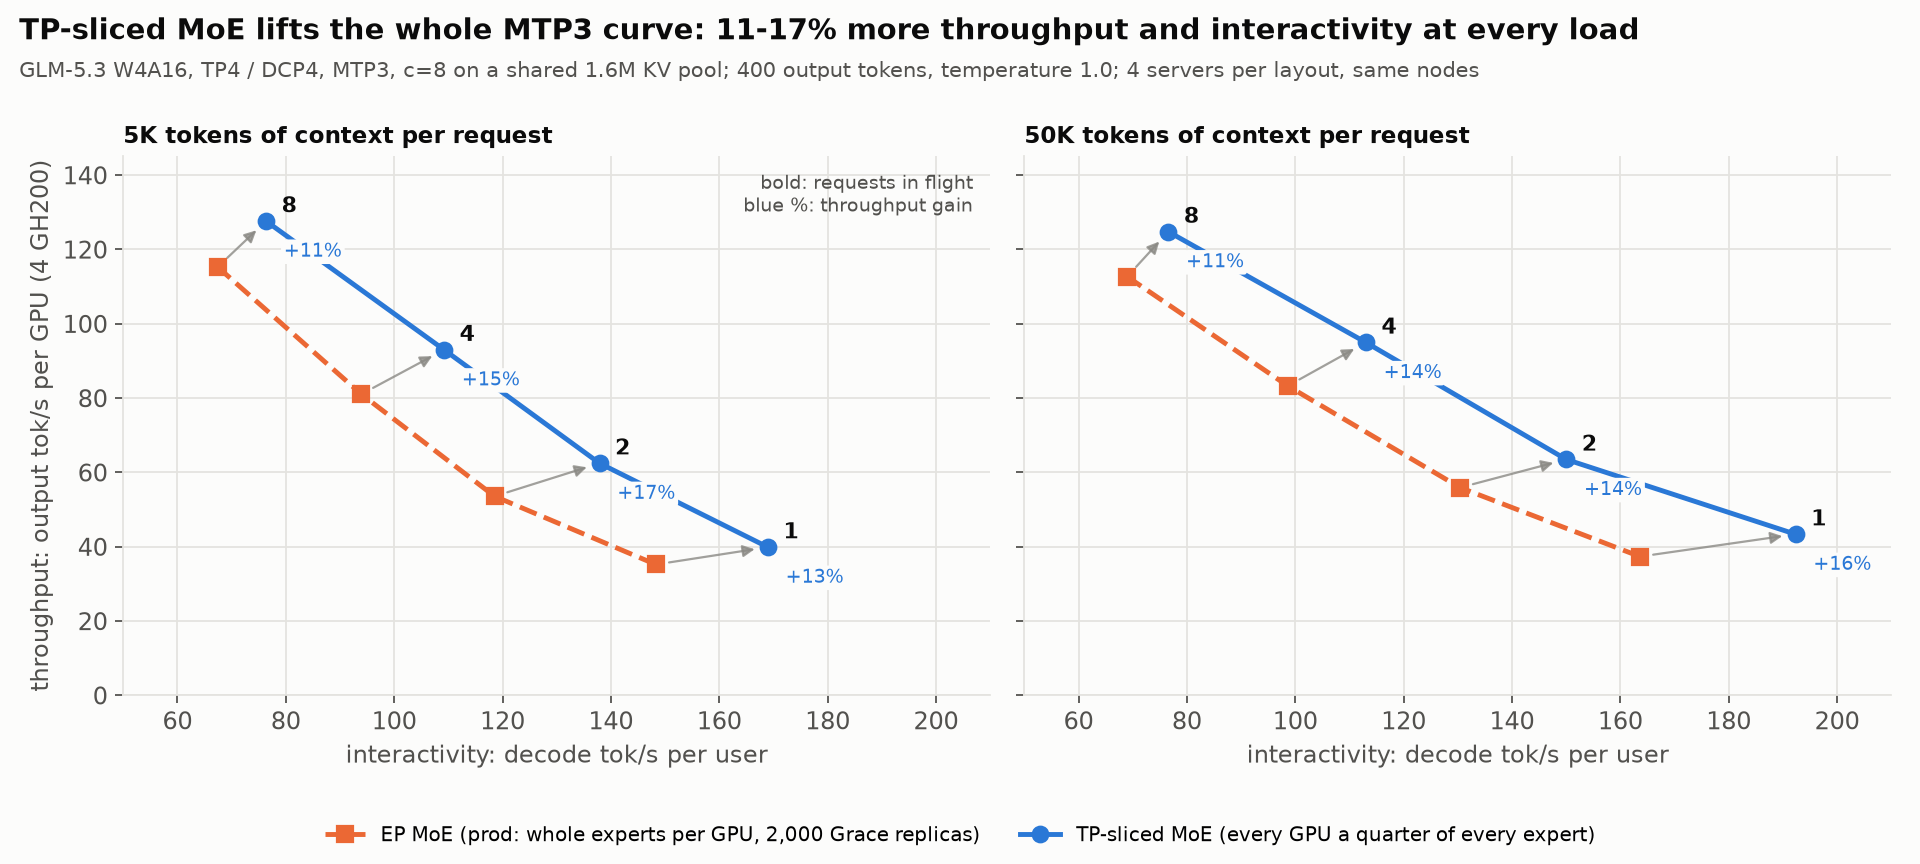
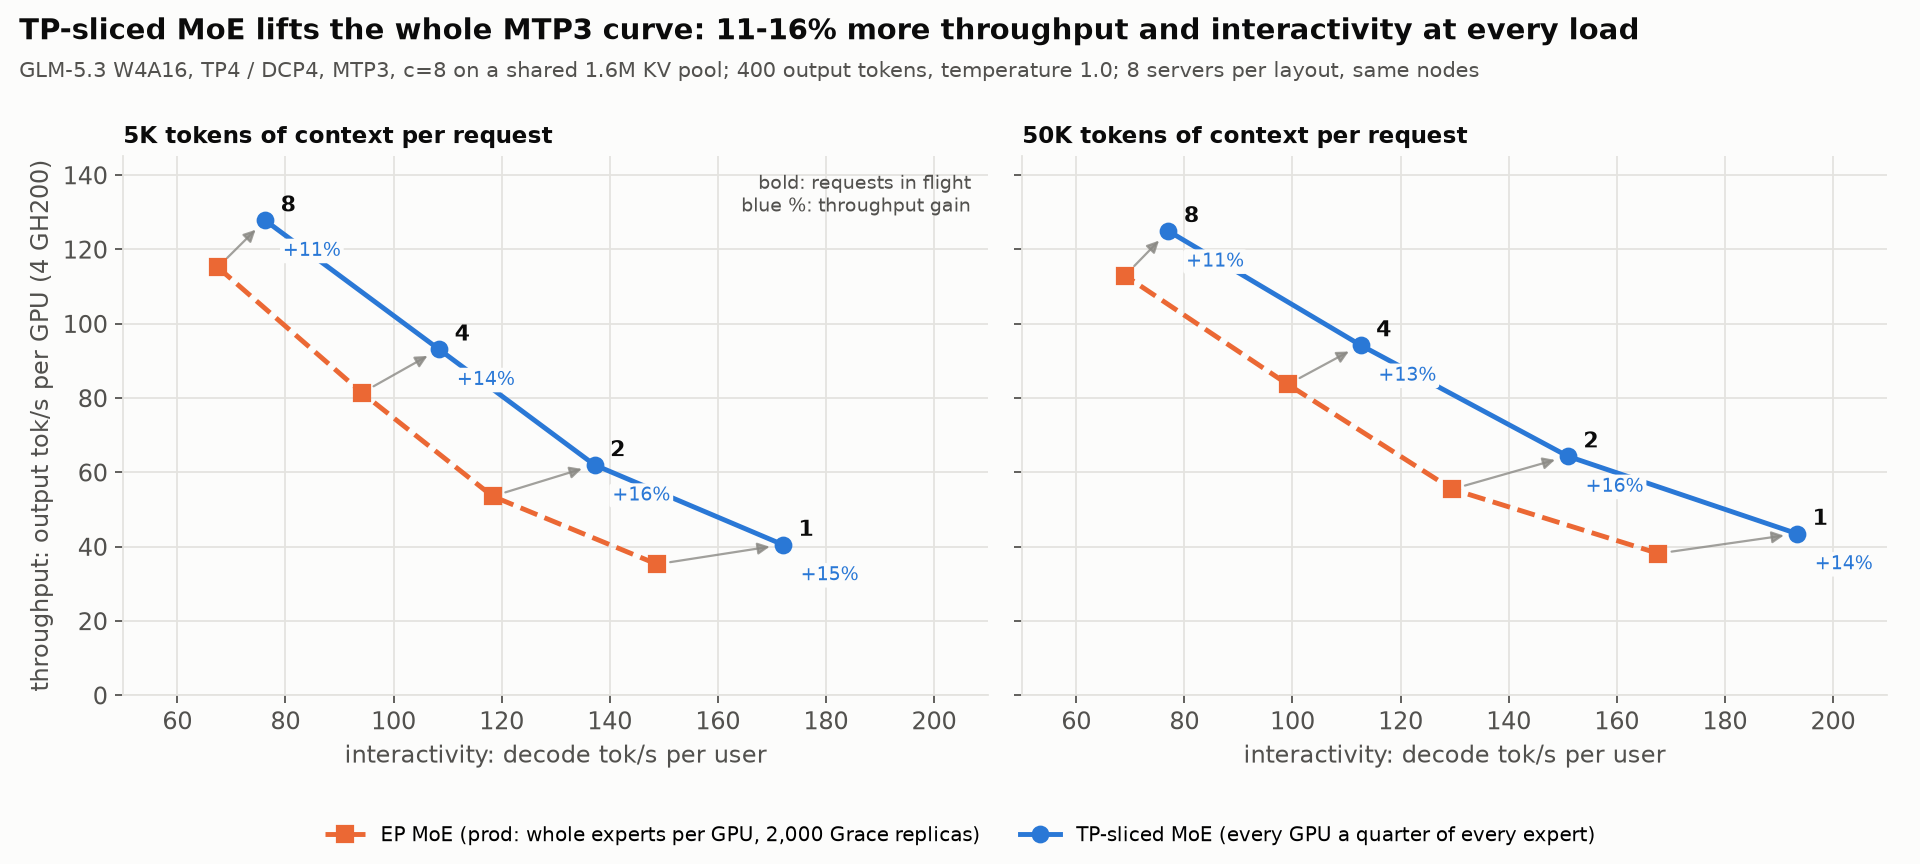
TP-sliced: sweep at 8 servers per layout, ctx-length probe, nsys breakdown, c>8 scale probe scripts
Claude-Session: https://claude.ai/code/session_01LNroM82coRpqoyBf9WF9ZV

diff --git a/experiments/2026-10-09-tp-sliced-experts/cold_touch.py b/experiments/2026-10-09-tp-sliced-experts/cold_touch.py
@@ -1,0 +1,67 @@
+"""Napkin input for cold prefetch at decode: on the live Claude Code routing
+capture (../2026-10-08-m32's source), M-token steps made of M/8 8-token steps
+from distinct files; the sliced hot set taken as each layer's most frequent
+--hot experts (13,614 slices / 75 layers = 181.5 per GPU); per layer, the
+number of distinct cold experts the step touches. Cold bytes per GPU = that x
+the slice size (5.1 MiB).
+
+    cold_touch.py [--hot 181] [--steps 400]
+"""
+import argparse
+import json
+import sys
+from pathlib import Path
+
+import numpy as np
+
+EXP = Path(__file__).resolve().parents[1]
+sys.path.insert(0, str(EXP / "2026-10-04-tiered-decode-kernel-review"))
+import profile_grid as pg  # noqa: E402
+
+SLICE_MIB = 5.1
+
+
+def main():
+    ap = argparse.ArgumentParser()
+    ap.add_argument("--hot", type=int, default=181)
+    ap.add_argument("--steps", type=int, default=400)
+    a = ap.parse_args()
+    src = pg.SOURCES[0]
+    files = [json.loads(l)["file"] for l in (src / "manifest.jsonl").read_text().splitlines()]
+    steps = []
+    for i, f in enumerate(files):
+        r = np.load(src / f).reshape(-1, 8, 78, 8)
+        steps += [(i, r[j]) for j in range(r.shape[0])]
+    allr = np.stack([r for _, r in steps])  # [S, 8, 78, 8]
+    freq = np.stack([np.bincount(allr[:, :, li + 3].ravel(), minlength=256) for li in range(75)])
+    hot = np.zeros((75, 256), bool)
+    for li in range(75):
+        hot[li, np.argsort(-freq[li])[:a.hot]] = True
+    cov = (freq * hot).sum() / freq.sum()
+    print(f"{len(steps)} 8-token steps; hot {a.hot}/256 per layer covers {cov:.1%} of routed picks")
+    rng = np.random.default_rng(0)
+    for m in (8, 32, 64, 128, 256, 512):
+        k = m // 8
+        cold_n, hot_n = [], []
+        for _ in range(a.steps):
+            picks, seen = [], set()
+            while len(picks) < k:
+                fi, r = steps[rng.integers(len(steps))]
+                if fi not in seen or len(seen) >= len(files):
+                    seen.add(fi)
+                    picks.append(r)
+            routes = np.concatenate(picks)  # [m, 78, 8]
+            for li in range(75):
+                touched = np.zeros(256, bool)
+                touched[routes[:, li + 3].ravel()] = True
+                cold_n.append((touched & ~hot[li]).sum())
+                hot_n.append((touched & hot[li]).sum())
+        c = np.array(cold_n)
+        print(f"M={m:4d}: touched hot/layer {np.mean(hot_n):6.1f}  cold/layer mean {c.mean():5.1f} "
+              f"p95 {np.percentile(c, 95):4.0f} of {256 - a.hot}  -> cold MiB/layer/GPU "
+              f"{c.mean() * SLICE_MIB:6.1f} (all cold {(256 - a.hot) * SLICE_MIB:.0f}), "
+              f"per step {c.mean() * SLICE_MIB * 75 / 1024:5.2f} GiB")
+
+
+if __name__ == "__main__":
+    main()

diff --git a/experiments/2026-10-09-tp-sliced-experts/ctx_probe.py b/experiments/2026-10-09-tp-sliced-experts/ctx_probe.py
@@ -1,0 +1,56 @@
+"""Is the sweep's 50K-over-5K speed context length or prompt content? The
+sweep's 5K prompts start at corpus offsets i * 1M and its 50K prompts at
+(3i + 10) * 1M. Here both offset sets at both lengths (a 5K prompt is the
+first 5K tokens of the 50K one at the same offset), one request at a time,
+400 tokens, the sweep's sampling: per request acceptance (counter delta),
+decode tok/s and step ms.
+
+    ctx_probe.py --out probe.jsonl [--k 8] [--reps 2]
+"""
+import argparse
+import json
+import statistics as st
+import sys
+from pathlib import Path
+
+sys.path.insert(0, str(Path(__file__).resolve().parents[1] / "2026-10-08-m32"))
+from conc_sweep import TAIL, call, prompt, run_case  # noqa: E402
+
+
+def main():
+    ap = argparse.ArgumentParser()
+    ap.add_argument("--out", required=True)
+    ap.add_argument("--k", type=int, default=8)
+    ap.add_argument("--reps", type=int, default=2)
+    a = ap.parse_args()
+    name = json.loads(call("/v1/models", method="GET").read())["data"][0]["id"]
+    corpus = "".join(f"\n### {f}\n{f.read_text(errors='ignore')}"
+                     for f in sorted(Path("vllm").rglob("*.py")))
+    offs = {"A": [i * 1_000_000 for i in range(a.k)], "B": [(i * 3 + 10) * 1_000_000 for i in range(a.k)]}
+    cellp = {(s, ctx): [prompt(name, ctx, corpus[o:]) for o in offs[s]]
+             for s in offs for ctx in (5000, 50000)}
+    for ps in cellp.values():
+        for t in ps:
+            call("/v1/chat/completions", {"model": name, "max_tokens": 1, "messages": [
+                {"role": "user", "content": "Below is source code from a project.\n" + t + TAIL}]}).read()
+    rows = []
+    with open(a.out, "w") as f:
+        for rep in range(a.reps):
+            for (s, ctx), ps in cellp.items():
+                for i, t in enumerate(ps):
+                    outs, _, acc = run_case(name, [t], [rep * 100 + i])
+                    o = outs[0]
+                    o.update(set=s, ctx_target=ctx, prompt=i, rep=rep, acc_len=acc,
+                             step_ms=1000 * acc / o["decode_tps"])
+                    f.write(json.dumps(o) + "\n")
+                    f.flush()
+                    rows.append(o)
+    print(f"{'set':>3} {'ctx':>6} {'acc':>5} {'step ms':>7} {'tok/s':>6}")
+    for (s, ctx) in cellp:
+        rs = [r for r in rows if r["set"] == s and r["ctx_target"] == ctx]
+        print(f"{s:>3} {ctx:6d} {st.mean(r['acc_len'] for r in rs):5.2f} "
+              f"{st.mean(r['step_ms'] for r in rs):7.2f} {st.mean(r['decode_tps'] for r in rs):6.1f}")
+
+
+if __name__ == "__main__":
+    main()

diff --git a/experiments/2026-10-09-tp-sliced-experts/conc_scale.py b/experiments/2026-10-09-tp-sliced-experts/conc_scale.py
@@ -1,0 +1,53 @@
+"""Aggregate decode throughput past c=8: conc_sweep.py's cases (distinct
+cached prompts, 400 forced tokens, temperature 1.0, per-case acceptance) at
+more requests in flight: n in --ns at ~5K and n in --ns50 at ~50K context.
+
+    conc_scale.py --out scale.jsonl [--ns 8,16,24,32,48,64] [--ns50 8,16,24] [--reps 2]
+"""
+import argparse
+import json
+import statistics as st
+import sys
+from pathlib import Path
+
+sys.path.insert(0, str(Path(__file__).resolve().parents[1] / "2026-10-08-m32"))
+from conc_sweep import TAIL, call, prompt, run_case  # noqa: E402
+
+
+def main():
+    ap = argparse.ArgumentParser()
+    ap.add_argument("--out", required=True)
+    ap.add_argument("--ns", default="8,16,24,32,48,64")
+    ap.add_argument("--ns50", default="8,16,24")
+    ap.add_argument("--reps", type=int, default=2)
+    a = ap.parse_args()
+    ns = {5000: [int(x) for x in a.ns.split(",")], 50000: [int(x) for x in a.ns50.split(",")]}
+    name = json.loads(call("/v1/models", method="GET").read())["data"][0]["id"]
+    corpus = "".join(f"\n### {f}\n{f.read_text(errors='ignore')}"
+                     for f in sorted(Path("vllm").rglob("*.py")))
+    prompts = {5000: [prompt(name, 5000, corpus[i * 500_000:]) for i in range(max(ns[5000]))],
+               50000: [prompt(name, 50000, corpus[5_000_000 + i * 1_000_000:])
+                       for i in range(max(ns[50000]))]}
+    for ps in prompts.values():
+        for t in ps:
+            call("/v1/chat/completions", {"model": name, "max_tokens": 1, "messages": [
+                {"role": "user", "content": "Below is source code from a project.\n" + t + TAIL}]}).read()
+    rows = []
+    with open(a.out, "w") as f:
+        for rep in range(a.reps):
+            for ctx, ps in prompts.items():
+                for n in ns[ctx]:
+                    outs, agg, acc = run_case(name, ps[:n], [rep * 1000 + i for i in range(n)])
+                    for o in outs:
+                        o.update(rep=rep, ctx_target=ctx, n=n, agg_tps=agg, acc_len=acc,
+                                 step_ms=1000 * acc / o["decode_tps"])
+                        f.write(json.dumps(o) + "\n")
+                        rows.append(o)
+                    f.flush()
+                    print(f"{ctx:6d} n={n:3d} agg {agg:7.1f} tok/s ({agg / 4:6.1f}/GPU) per-user "
+                          f"{st.mean(o['decode_tps'] for o in outs):6.1f} acc {acc:.2f} step "
+                          f"{st.mean(o['step_ms'] for o in outs):6.2f} ms", flush=True)
+
+
+if __name__ == "__main__":
+    main()

diff --git a/experiments/2026-10-09-tp-sliced-experts/nsys_bd.py b/experiments/2026-10-09-tp-sliced-experts/nsys_bd.py
@@ -40,7 +40,7 @@ def main():
     dev = a.device if a.device is not None else min(
         d for (d,) in c.execute("select distinct deviceId from CUPTI_ACTIVITY_KIND_KERNEL"))
     by_corr = collections.defaultdict(list)
-    for s, e, corr, n in c.execute("select start, end, correlationId, shortName from "
+    for s, e, corr, n in c.execute("select start, end, correlationId, demangledName from "
                                    "CUPTI_ACTIVITY_KIND_KERNEL where deviceId = ?", (dev,)):
         by_corr[corr].append((s, e, names[n]))
     other = []

diff --git a/experiments/2026-10-09-tp-sliced-experts/README.md b/experiments/2026-10-09-tp-sliced-experts/README.md
@@ -977,16 +977,18 @@ boot: the observed free HBM is 2.39-2.52 GiB, below the 2.53 GiB minimum. At
 hot set, and its curve reproduces the chart's EP line. Both layouts use 3.6
 (sliced: 13,614 hot slices ≈ 3,404 experts).
 
+8 servers per layout over 4 holds (2 + 2 per hold; paired over holds):
+
 | ctx | n | tok/s/user EP → SL | tok/s/GPU EP → SL | step ms EP → SL | sliced − EP, paired (4 holds) |
 |---|--:|--|--|--|--:|
-| 5K | 1 | 148.3 → 169.0 | 35.2 → 39.8 | 19.99 → 17.37 | −2.62 ± 0.17 (−13.1%) |
-| 5K | 2 | 118.5 → 137.9 | 53.5 → 62.4 | 24.17 → 20.91 | −3.26 ± 0.12 (−13.5%) |
-| 5K | 4 | 93.9 → 109.2 | 81.0 → 92.9 | 31.52 → 27.42 | −4.10 ± 0.14 (−13.0%) |
-| 5K | 8 | 67.4 → 76.4 | 115.2 → 127.6 | 43.85 → 38.71 | −5.14 ± 0.07 (−11.7%) |
-| 50K | 1 | 163.6 → 192.3 | 37.3 → 43.3 | 20.53 → 17.94 | −2.59 ± 0.12 (−12.6%) |
-| 50K | 2 | 130.4 → 150.0 | 55.9 → 63.4 | 24.90 → 21.40 | −3.50 ± 0.11 (−14.1%) |
-| 50K | 4 | 98.6 → 113.0 | 83.2 → 94.9 | 32.73 → 28.80 | −3.93 ± 0.11 (−12.0%) |
-| 50K | 8 | 69.0 → 76.6 | 112.6 → 124.7 | 45.75 → 40.69 | −5.06 ± 0.14 (−11.1%) |
+| 5K | 1 | 148.7 → 172.0 | 35.2 → 40.5 | 19.85 → 17.22 | −2.63 ± 0.13 (−13.2%) |
+| 5K | 2 | 118.3 → 137.2 | 53.5 → 62.0 | 24.14 → 20.91 | −3.23 ± 0.09 (−13.4%) |
+| 5K | 4 | 94.2 → 108.4 | 81.4 → 93.1 | 31.51 → 27.50 | −4.01 ± 0.10 (−12.7%) |
+| 5K | 8 | 67.5 → 76.2 | 115.2 → 127.8 | 43.72 → 38.72 | −5.00 ± 0.07 (−11.4%) |
+| 50K | 1 | 167.7 → 193.3 | 38.1 → 43.5 | 20.41 → 17.80 | −2.61 ± 0.14 (−12.8%) |
+| 50K | 2 | 129.5 → 150.9 | 55.4 → 64.3 | 24.75 → 21.51 | −3.24 ± 0.04 (−13.1%) |
+| 50K | 4 | 99.1 → 112.6 | 83.6 → 94.2 | 32.76 → 28.78 | −3.98 ± 0.09 (−12.1%) |
+| 50K | 8 | 69.0 → 77.0 | 112.9 → 124.9 | 45.74 → 40.68 | −5.06 ± 0.12 (−11.1%) |
 
 Acceptance is equal (2.86-2.98 at 5K, 3.10-3.45 at 50K, with no
 direction). The step saving grows with the number of tokens per step (−2.6 ms
@@ -1042,3 +1044,46 @@ Rank 0, GiB:
   left is the MTP drafter's untiered layer, at 4,096-token prefill chunks.
   Chunking that layer would free about 0.5 GiB (about 25 hot experts). This
   is not measured.
+
+### Why 50K is faster per user than 5K (`ctx_probe.py`, hold 2263891, sliced)
+
+The sweep's 5K prompts start at corpus offsets i·1M (set A) and its 50K prompts
+at (3i+10)·1M (set B). This probe runs both sets at both lengths, one request at
+a time, 8 prompts × 2 seeds per cell:
+
+| set | ctx | acc | step ms | tok/s |
+|---|--:|--:|--:|--:|
+| A | 5K | 2.93 | 17.20 | 170.6 |
+| A | 50K | 3.18 | 17.55 | 181.2 |
+| B | 5K | 2.91 | 17.21 | 168.8 |
+| B | 50K | 3.19 | 17.53 | 182.2 |
+
+The effect is length, not content. At 50K, MTP3 accepts about 0.27 more tokens
+per step, while DSA's fixed top-k attention costs only +0.35 ms. Per-user
+tok/s equals acceptance / step in every sweep cell.
+
+### Nsight Systems (`chain_nsys.sh` → `nsys_c8_arm.sh`, `nsys_node.sh`, `nsys_bd.py`; holds 2263794/96)
+
+Graph kernels are traced per node, one report per window, and nothing else is
+recorded. Rank 0, ms per step, breakdown2.py's categories (demangled names):
+
+| | EP 1x5K | SL 1x5K | EP 8x5K | SL 8x5K | EP 8x50K | SL 8x50K |
+|---|--:|--:|--:|--:|--:|--:|
+| period | 20.19 | 17.42 | 42.59 | 37.56 | 43.81 | 37.67 |
+| MoE expert kernels (SL: + shared expert) | 6.15 | 5.31 | 22.54 | 19.81 | 23.32 | 19.47 |
+| all-reduce + RMSNorm (incl. wait) | 2.56 | 1.06 | 3.87 | 2.05 | 3.87 | 2.06 |
+| dense GEMMs (cuBLAS etc.) | 1.00 | 0.96 | 3.61 | 3.40 | 3.60 | 3.41 |
+| DCP collectives | 1.14 | 1.24 | 2.76 | 3.03 | 2.74 | 3.02 |
+| outside the verify graph | 2.13 | 2.10 | 2.61 | 2.62 | 2.65 | 2.67 |
+| attention (FlashMLA) | 0.88 | 0.91 | 1.94 | 2.00 | 1.96 | 2.03 |
+| dense GEMMs (decode_gemm) | 3.08 | 3.08 | 1.68 | 1.70 | 1.76 | 1.78 |
+| GPU idle | 0.92 | 0.65 | 1.04 | 0.73 | 0.96 | 0.61 |
+| MoE route/act/finalize + router | 0.58 | 0.47 | 0.78 | 0.58 | 0.78 | 0.58 |
+| DSA indexer | 0.55 | 0.55 | 0.63 | 0.64 | 1.02 | 1.04 |
+
+The periods match the unprofiled sweep. The torch profile's +0.2 ms idle for
+sliced was profiler cost: under nsys, sliced idles less than EP. Part of EP's
+all-reduce wait moves into the DCP collectives under sliced (+0.1-0.3 ms). No
+sliced-specific irregularity. Two levers are common to both layouts at M=32:
+dense GEMMs at 5.1 ms (decode_gemm 1.7 + cuBLAS 3.4, vs 4.1 ms at M=4), and
+the 3 MTP passes outside the graph at 2.6 ms.
